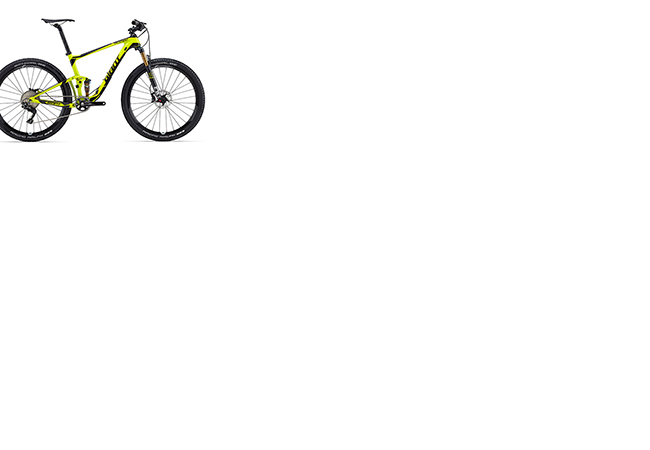
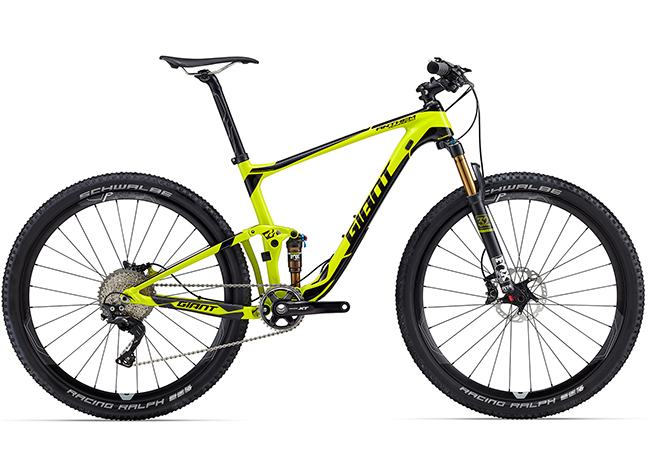
Fixed Pictures
Fixed some MTB pictures that were resized wrong.

Changed region(s): [[0.0, 0.0311, 1.0, 0.9644]]

diff --git a/index.php b/index.php
@@ -126,6 +126,8 @@
 
   <hr class="featurette-divider">
 
+
+  <!-- START NOTIFICATION SECTION -->
   <div class="featurette">
     <img class="featurette-image img-circle pull-left" src="pictures/index/featurettes/notification.jpg">
     <h2 class="featurette-heading">Holiday Hours</h2>
@@ -135,6 +137,8 @@
   </div>
 
   <hr class"featurette-divider">
+
+  <!-- /END NOTIFICATION SECTION -->
 
   <div class="featurette">
     <img class="featurette-image img-circle pull-right" src="pictures/index/featurettes/hours.jpg">
